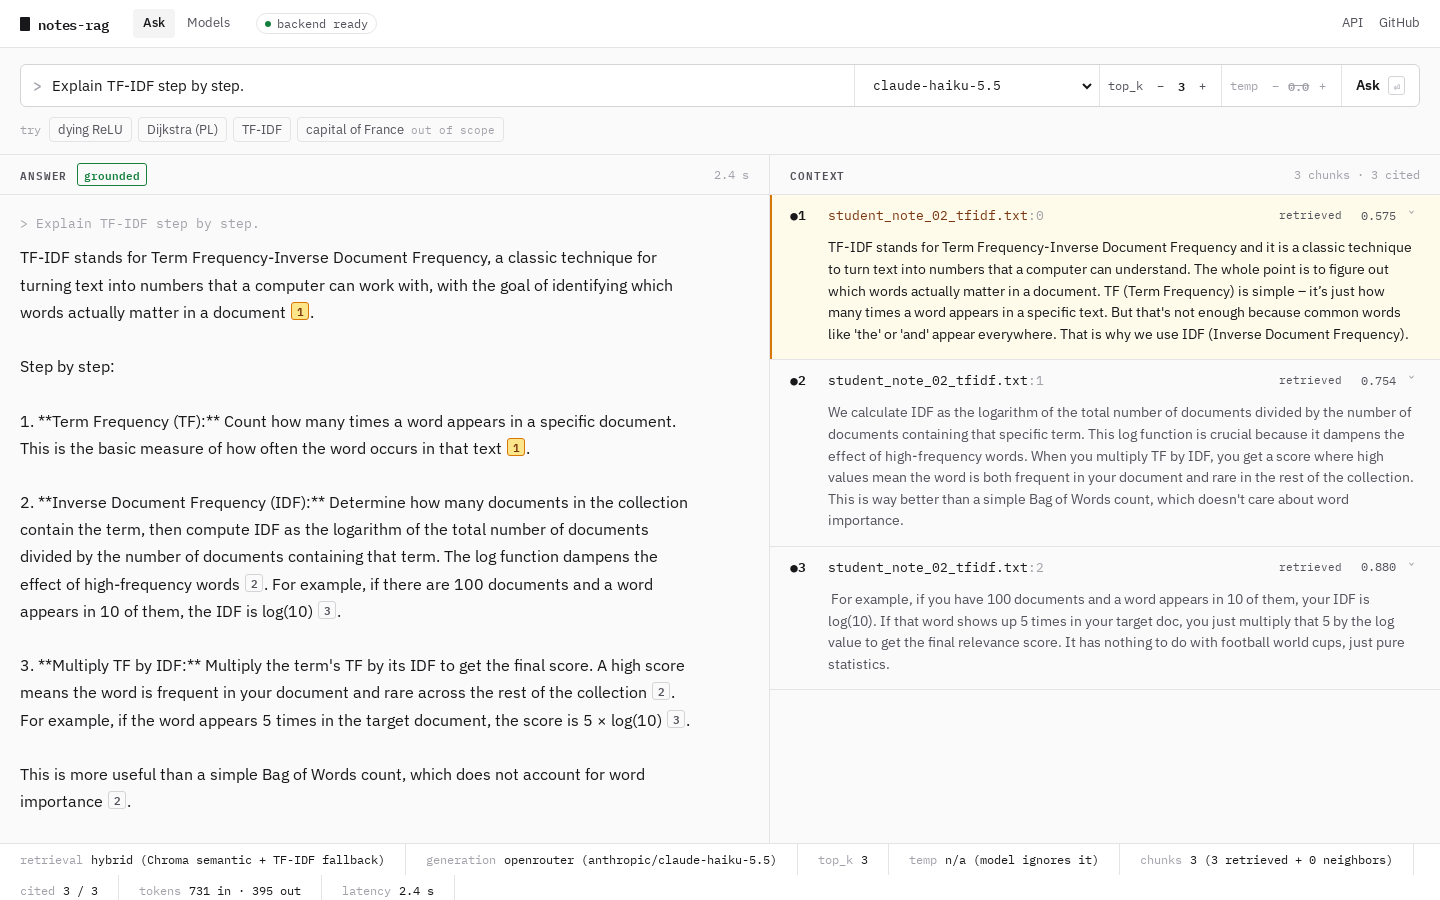
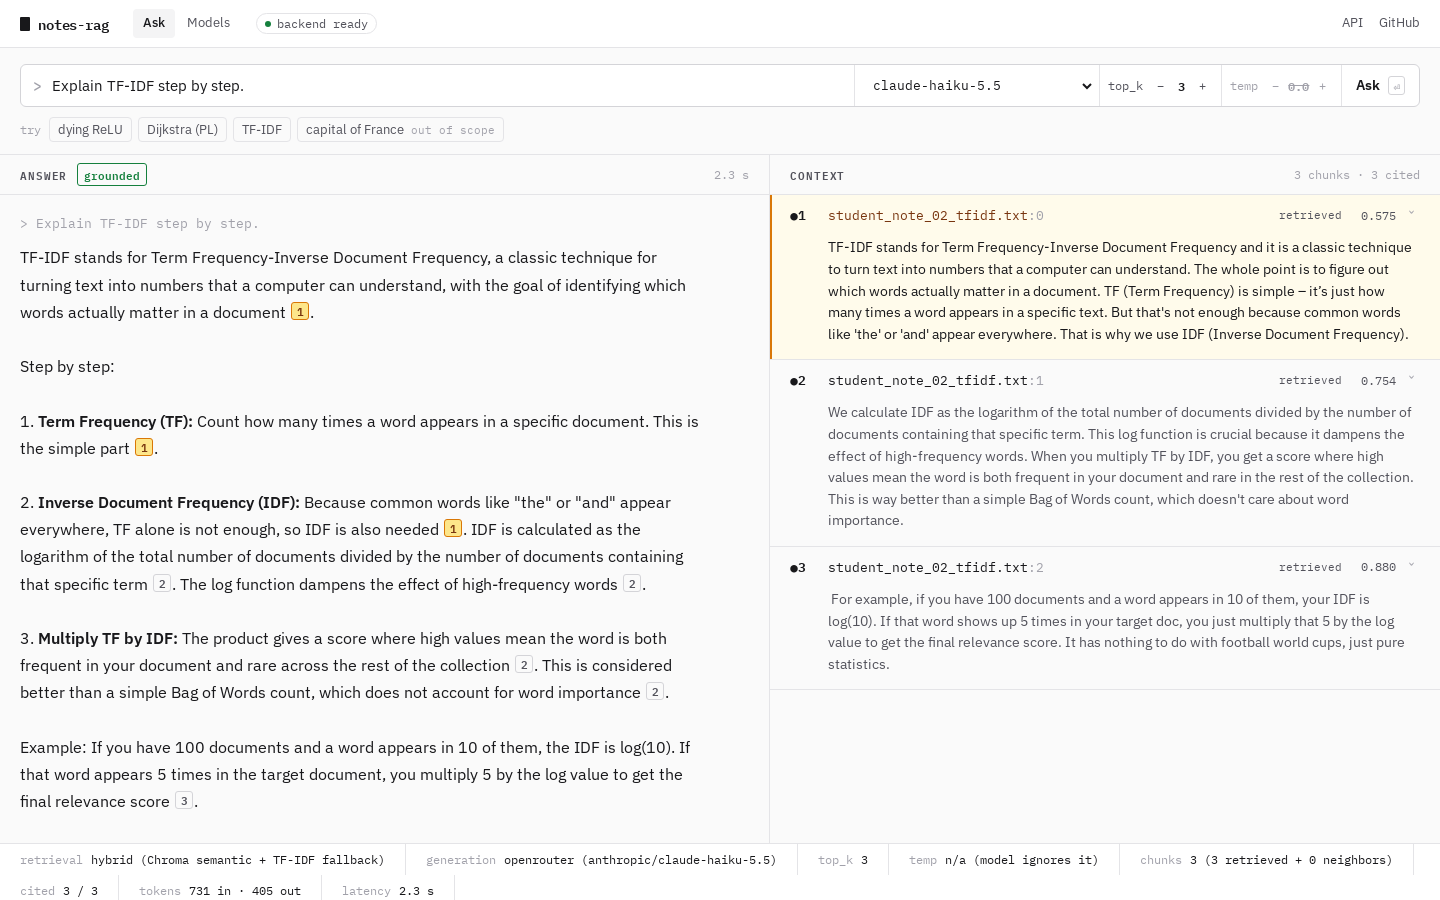
docs: release-ready README and MIT LICENSE
- safe ingest command in Quickstart (the old one overwrote committed eval results)
- Example answers from the default model; precise temperature and cost wording
- add the LICENSE file the README already referred to

Changed region(s): [[0.0, 0.4667, 0.4688, 0.9022], [0.25, 0.3111, 0.4688, 0.3422]]

diff --git a/README.md b/README.md
@@ -48,7 +48,7 @@ final validation run on previously unseen notes.
 
 ## Current status
 
-This repository contains a working local MVP:
+This repository contains a working MVP:
 
 - FastAPI backend with `/ask`, `/search`, `/ingest`, `/ingest/batch`, and `/health`
 - persistent ChromaDB vector store
@@ -134,10 +134,10 @@ Drop your `.txt` or `.md` study notes into the directory:
 backend/data/notes/
 ```
 
-After dropping the notes, they must be ingested into the vector database by running the following command inside the `backend/` directory:
+Then index them (from `backend/`). This rebuilds the vector collection and the TF-IDF fallback from that folder:
 
 ```bash
-python -m app.run_retrieval_eval --reset-and-reingest
+python -m app.ingest_corpus --corpus v1
 ```
 
 ### 5. Run the Backend
@@ -183,13 +183,14 @@ All smoke tests PASSED!
 
 **In-scope question — answered with source citations:**
 
-> **Q:** What is Dijkstra's algorithm used for?
+> **Q:** When should I use Bellman-Ford instead of Dijkstra?
 >
-> **A:** Dijkstra's algorithm jest używany do optymalizacji ścieżek w grafach, czyli do znalezienia
-> najkrótszej drogi między dwoma wierzchołkami. **[Source 1]**
+> **A:** You should use Bellman-Ford instead of Dijkstra when the graph has negative edge weights, because
+> Dijkstra only works correctly when all edge weights are non-negative. **[Source 2]**
 
-The UI renders citations as numbered markers; hovering or clicking one highlights and opens the matching
-chunk in the context panel.
+The cited chunk is a Polish note (*"Dijkstra działa poprawnie tylko wtedy, gdy wagi krawędzi są nieujemne…"*) —
+the English answer is grounded across languages. The UI renders citations as numbered markers; hovering or clicking
+one highlights and opens the matching chunk in the context panel. (Default model, Claude Haiku 5.5, ~1 s.)
 
 **Out-of-scope question — refused instead of guessed:**
 
@@ -241,7 +242,7 @@ model to highlight it in every chart. It is the same view as the app's **Models*
 
 **Setup.** Six hosted models (via OpenRouter) answered the same **94 questions** from **identical retrieved context** —
 retrieval runs once per question, so differences come from generation only. `temperature = 0`; hidden reasoning is
-disabled where the model allows it (Claude Sonnet 5.5 makes it mandatory, so it ran at the lowest effort). Cost is
+disabled where the model allows it (Claude Sonnet 5.5 makes it mandatory, so it ran at `effort: low`). Cost is
 token usage × OpenRouter list prices at run time. The corpus (v2, frozen) is the 11 original notes plus 12 synthetic
 near-topic notes; 17 questions are out of scope, 12 of them traps such as *"What is Expected Sarsa?"* when only a
 Sarsa note exists.
@@ -264,7 +265,7 @@ refuse — so those 18 questions are scored as refusal tests, not answer tests.
   answers without a source in almost half of the unsupported cases.
 - **Claude Haiku 5.5 became the app's default:** it is the cheapest model reaching ≥ 95% on all four grounding metrics
   (100% correct refusals, ~1 s, $0.18 per 1,000 questions) — on par with GPT-5.6 Sol and Claude Sonnet 5.5 at
-  roughly 1/22 of their cost.
+  roughly 1/22–1/25 of their cost.
 - **Local `llama3.2:3b` (Ollama) is left out:** 5–110 s per answer on my laptop CPU rules it out as a product option.
   The same model, hosted, is in the chart; local inference can still be enabled with `OLLAMA_ENABLED=true`.
 
@@ -275,9 +276,10 @@ refuse — so those 18 questions are scored as refusal tests, not answer tests.
   <img alt="Temperature 0 vs 0.7 over three runs each for Gemma 4 31B and Llama 3.2 3B" src="docs/benchmark/temperature-light.svg">
 </picture>
 
-**Temperature 0 vs 0.7, three full runs each.** Gemma 4 31B gives the same grounding numbers in all six runs. Llama 3.2 3B
-moves by up to ~20 pp *between repeated runs* — and is not stable even at temperature 0, because hosted endpoints are
-not bit-deterministic. Takeaway: with a small model, single-run differences below ~10 pp are noise.
+**Temperature 0 vs 0.7, three full runs each.** Gemma 4 31B gives the same answer and refusal rates in all six runs
+(only one citation differs). Llama 3.2 3B varies by up to 22 pp *between repeated runs* at temperature 0.7 — and by up
+to 6 pp even at temperature 0, because hosted endpoints are not bit-deterministic. Takeaway: with a small model,
+single-run differences below ~10 pp are noise.
 
 <picture>
   <source media="(prefers-color-scheme: dark)" srcset="docs/benchmark/retrieval-topk-dark.svg">
@@ -383,4 +385,4 @@ docs/benchmark/        # README charts + static interactive benchmark page (GitH
 
 ## License
 
-Released under the MIT License.
+Released under the [MIT License](LICENSE).
